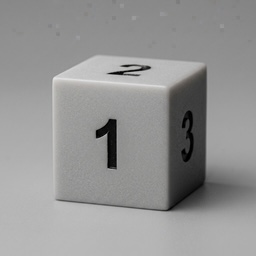
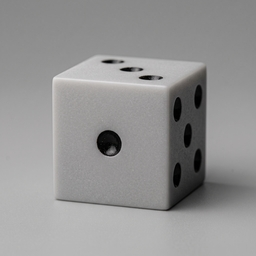
feat: update d6 cover image

Changed region(s): [[0.6562, 0.3125, 0.8125, 0.7188], [0.375, 0.4375, 0.5, 0.6875], [0.375, 0.2188, 0.6562, 0.3125]]

diff --git a/mods/sonder@dice-d6/CHANGELOG.md b/mods/sonder@dice-d6/CHANGELOG.md
@@ -1,5 +1,8 @@
 # Changelog
 
+## 1.3.1
+Updated cover image
+
 ## 1.3.0
 
 Render classic pip dots on each face instead of numerals, with slightly rounded corners.
